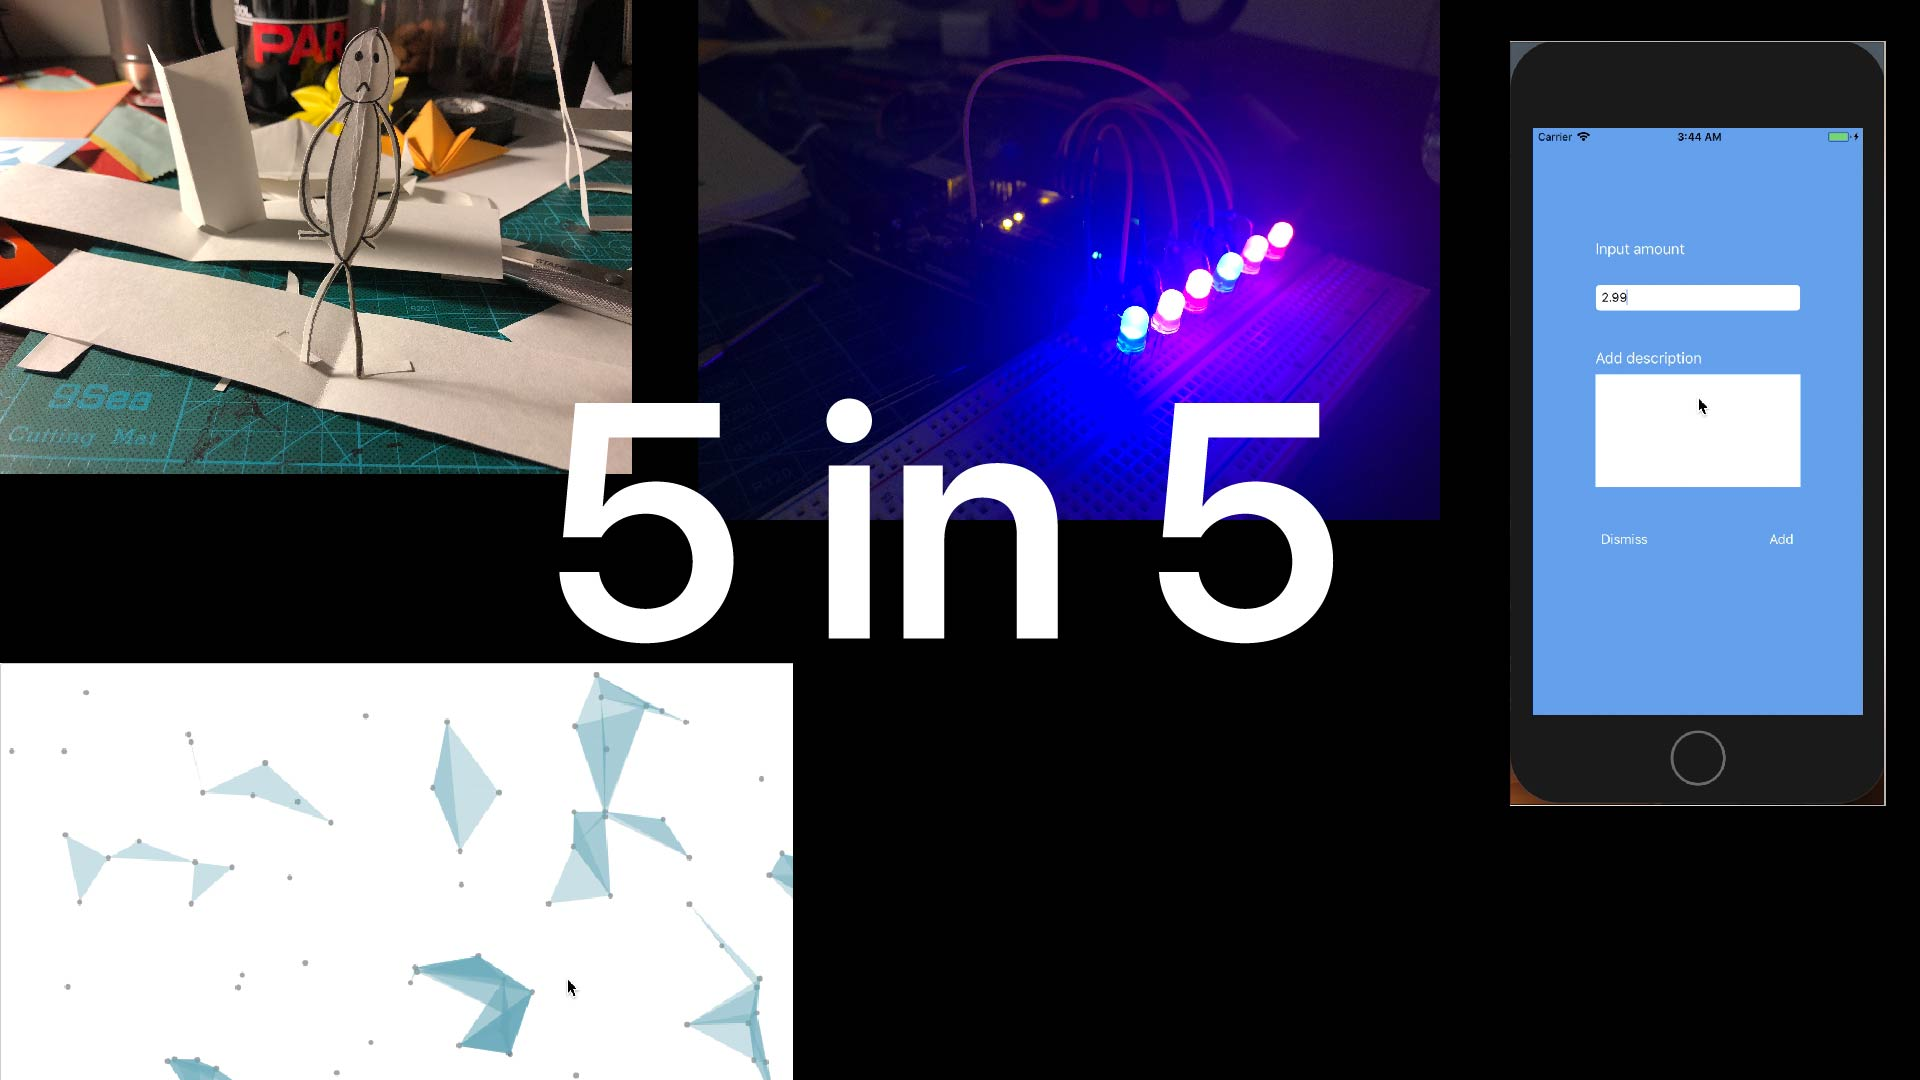
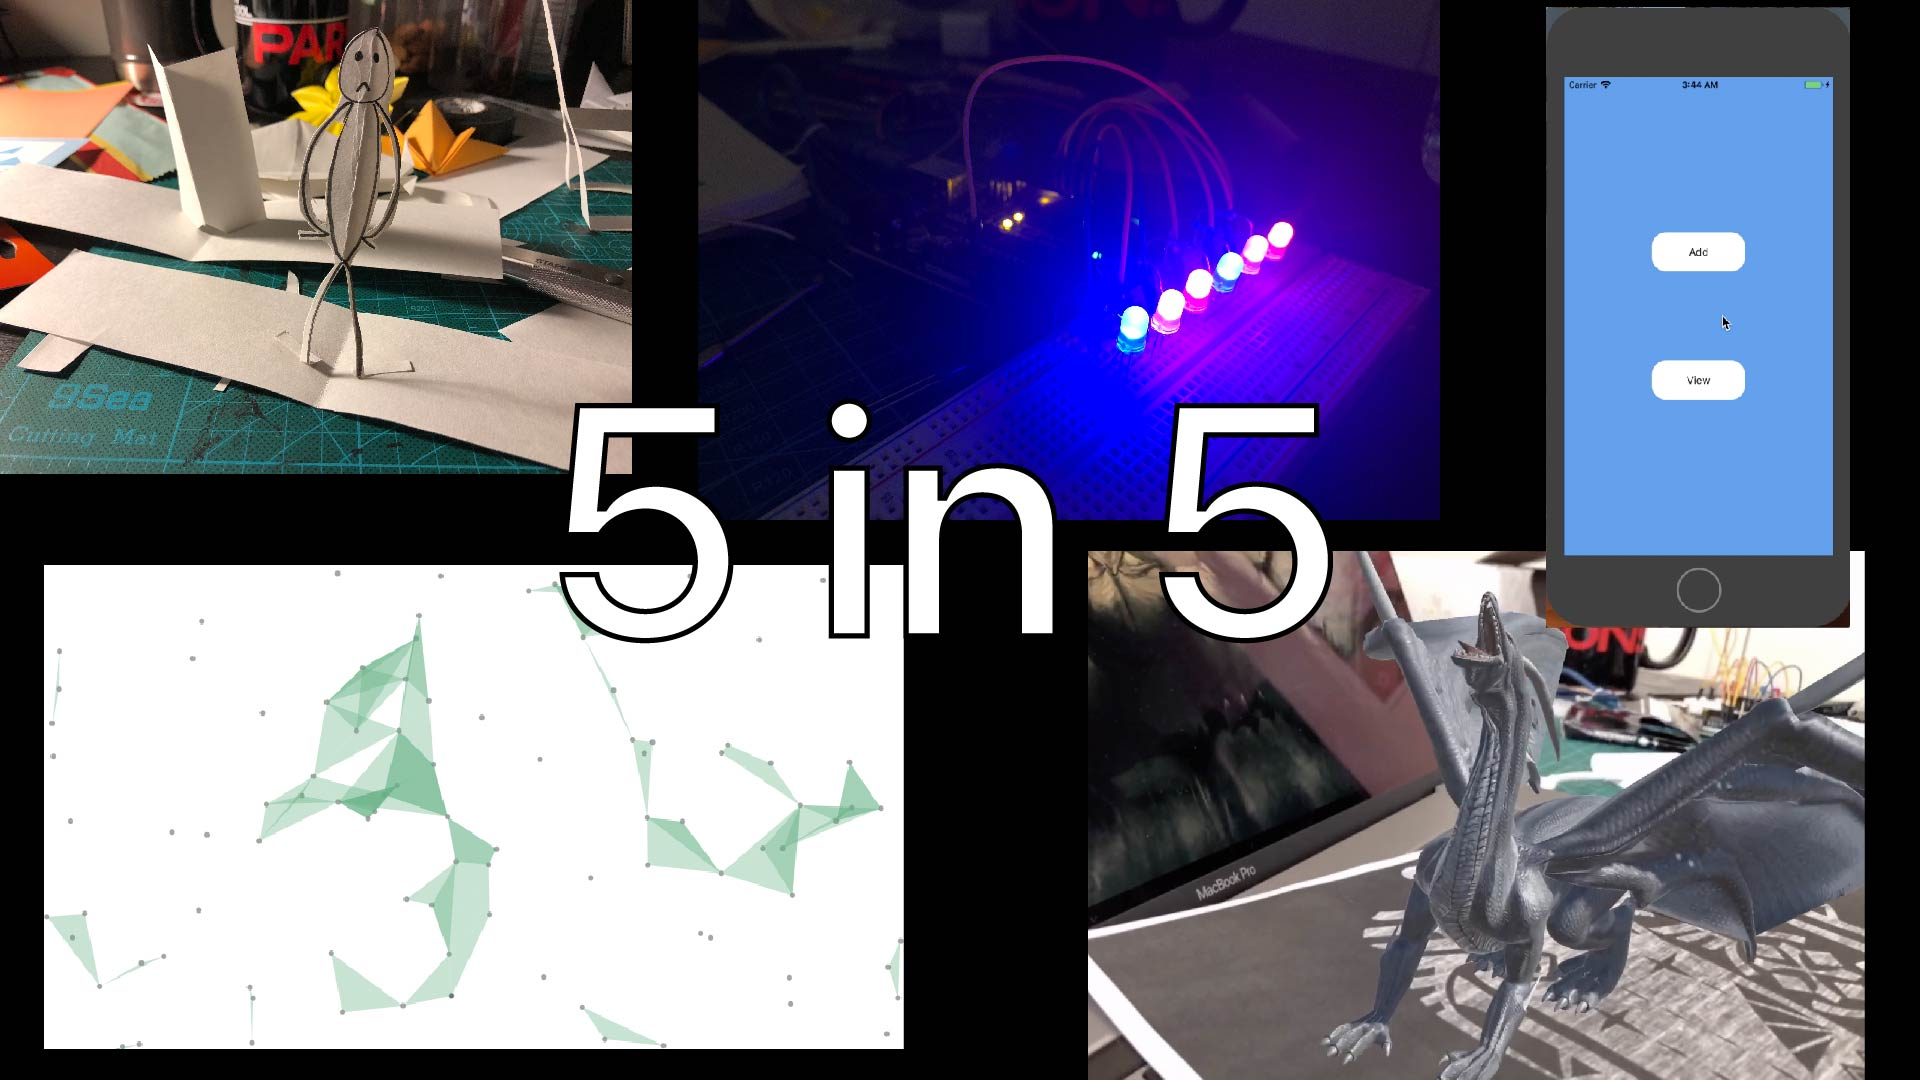
done

diff --git a/ms1/detail1.html b/ms1/detail1.html
@@ -269,11 +269,74 @@
             purchase in the future.
         </p>
         <div class="precedents">
-            <img src="https://media.giphy.com/media/5zorhL0qqKXbvYGT9I/giphy.gif" style="width: 30%;height: auto;margin-bottom:40px"  >
+            <iframe width="90%" height="560" src="https://www.youtube.com/embed/sw6wUFEZncM" frameborder="0" allow="autoplay; encrypted-media" allowfullscreen></iframe>
         </div>
     </div>
     <div class = "dayContainer off" id="day5Container">
-        <h1>TBD</h1>
+        <h1>AR Black Dragon</h1>
+        <p>
+            This project is about to deploy a black dragon only when AR camera is detect a certain image or patter. This time
+            I didn't use ARkit which is the one I already used. I try to explore more on Vurforia and Unity. Since it support
+            cross platform of devices and I can say Vurforia is amazing! Simple to use and have powerful AR performance.
+        </p>
+        <br>
+        <h2>Conceptualization</h2>
+        <p>
+            The idea is just come from a mobile game I just played a year ago. It allow you to draw a picture by hand and
+            open your mobile phones camera to scan it. Than it will show up a 3d figure on your painting. It involve the
+            technique to detect certain pattern or image and then deploy the 3d model on it.
+        </p>
+        <div class="precedents">
+            <img src="https://i.ytimg.com/vi/Z9mUlHCPNBo/maxresdefault.jpg" style="width: 50%;height: auto">
+        </div>
+        <br>
+        <h2>Development</h2>
+        <h3>a.Vurforia & Unity</h3>
+        <p>I decide to use Vurforia since I just heard a lot of goods word from the people around me. And I just saw so many
+            amazing AR work on it. On the other hand, I have now idea of how to do the thing I want in ARkit! What's more, unity is
+            also helpful when I try to make the 3d model move.
+        </p>
+
+        <h3>b.Vurforia </h3>
+        <p>
+            I do a lot research on Vurforia. Learn about that it is an AR engine. One of the main feature of it is recognize
+            object like image, cylinder, or even 3d object. Then it can track the target object with camera to deploy AR virtual
+            object accordingly. That is what I need! And It is quiet simple to use! All I need is have an account and upload the
+            image I want to be recognized. And download the packages for unity.
+        </p>
+        <div class="precedents">
+            <img src="img/Vurforia.png">
+            <img src=img/image.jpg" style="margin-left:40px;">
+            <img src=img/object.jpg" style="margin-left:40px;">
+        </div>
+        <br>
+
+        <h3>b. Unity</h3>
+        <p>
+            I've used unity to develop the game before. So I'm kind of familiar with it. But I still wonder how to develop an app with it
+            especially how to combine with AR. I download a free dragon model with idle, flying and walking animation.
+        </p>
+        <div class="precedents">
+            <img src="img/u1.png"style="width: 40%; height: auto">
+            <img src="img/u2.png" style="width: 40%; height:auto; margin-left:40px; ;">
+        </div>
+        <p>And put into unity
+            The new knowledge I just learn about here is the crossplatform sling joystick from the standard packages. It is kind like a set
+            of button. It will be added to the front of camera to become the interactive interface in the AR scene. So that users can use the
+            controller to control the AR object.</p>
+        <div class="precedents">
+            <img src="img/controller.png"style="width: 40%; height: auto">
+            <img src="img/c2.png" style="width: 40%; height:auto; margin-left:40px; ;">
+        </div>
+        <h2>Final</h2>
+        <p>
+           The finally finished outcome is good. I can scan the drawing to make the AR object appear on the screen and then
+            move the joystick to make the dragon fly and move to different directions.
+        </p>
+        <div class="precedents">
+            <iframe width="90%" height="600 " src="https://www.youtube.com/embed/wrr5pW6QA9w" frameborder="0" allow="autoplay; encrypted-media" allowfullscreen></iframe>
+        </div>
+    </div>
     </div>
 
     <!--<div class="pages"></div>-->
